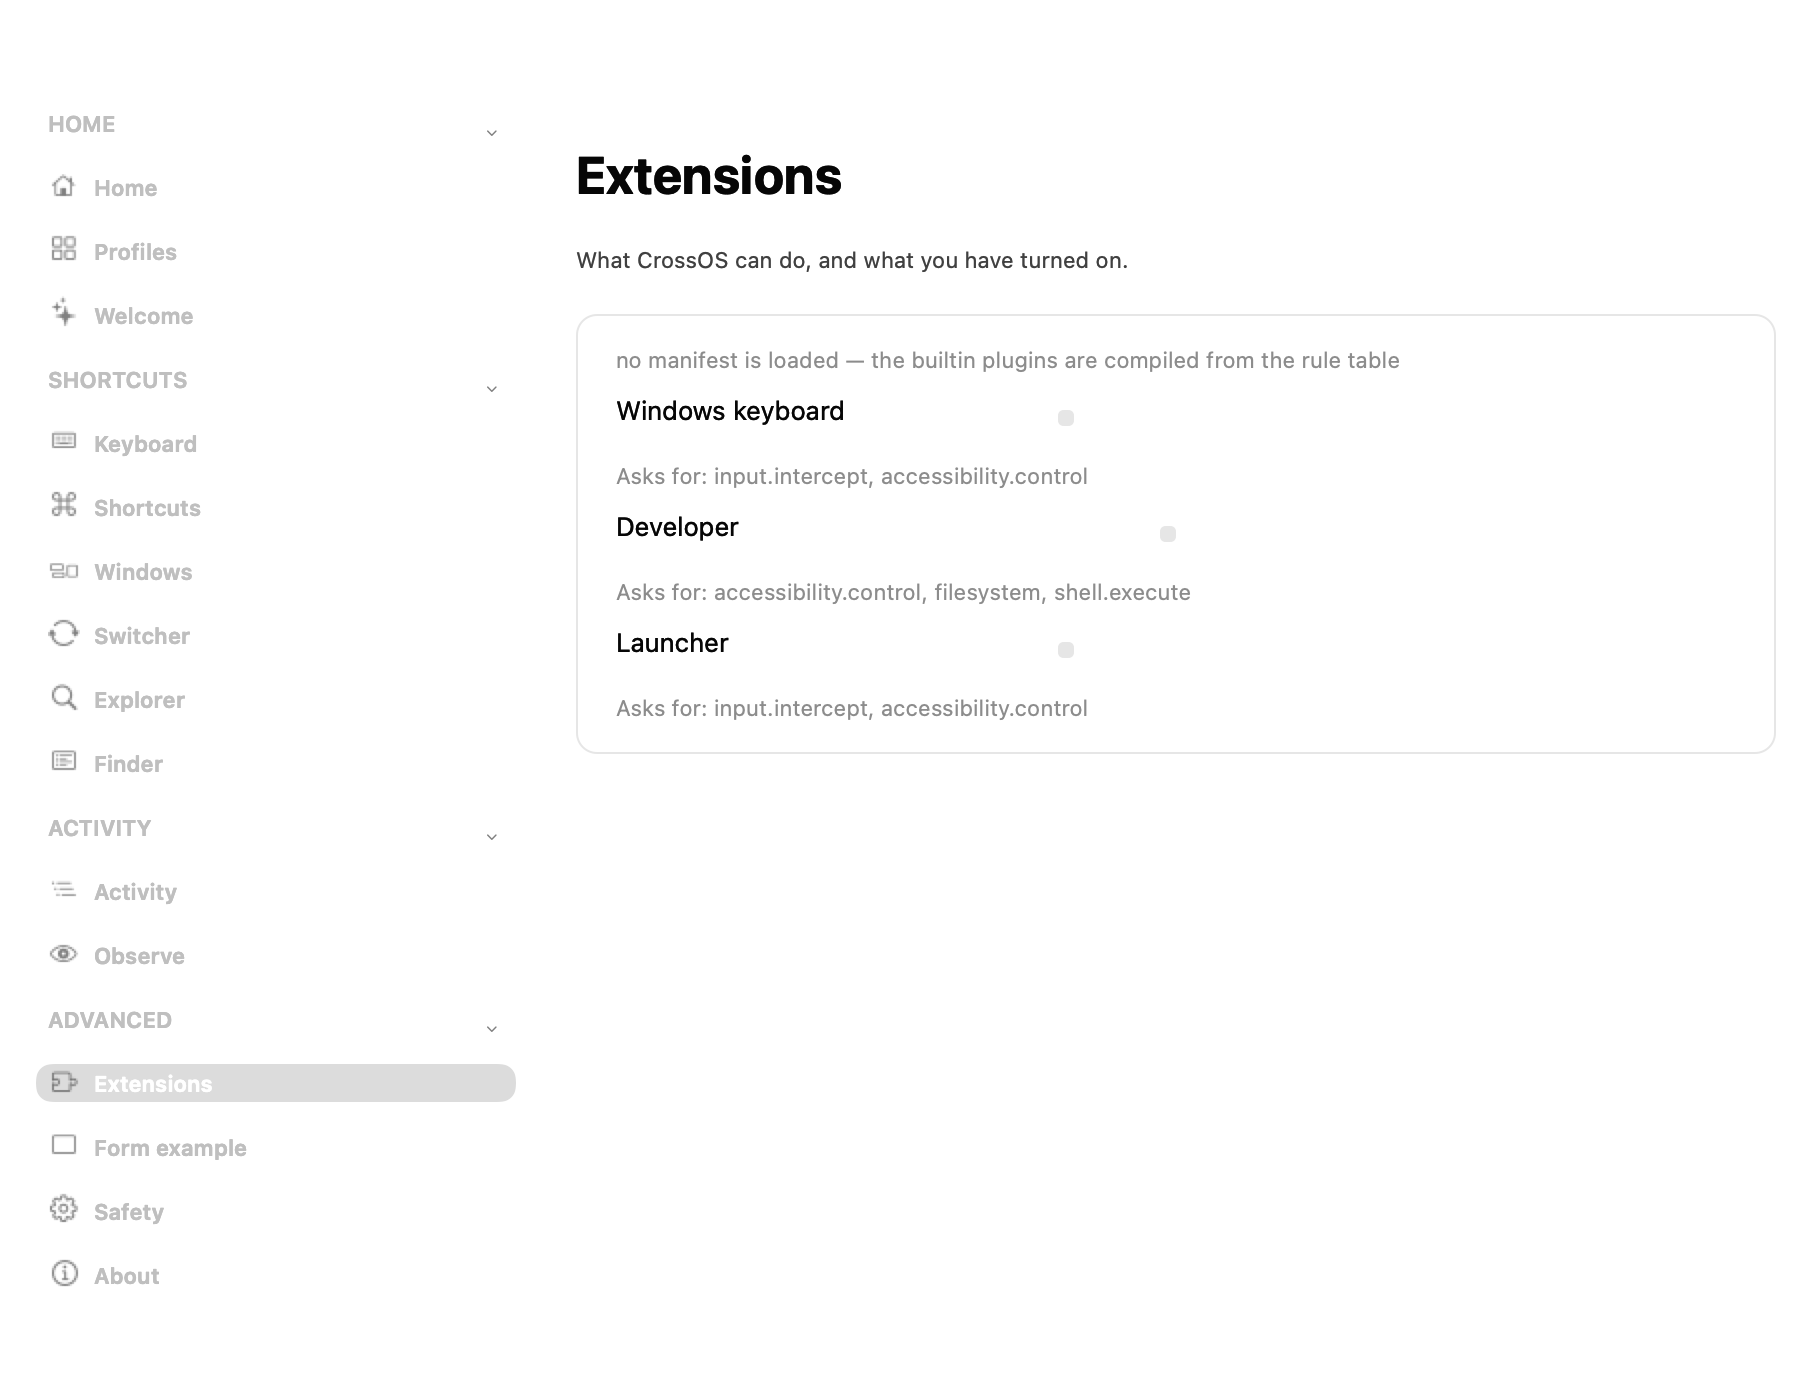
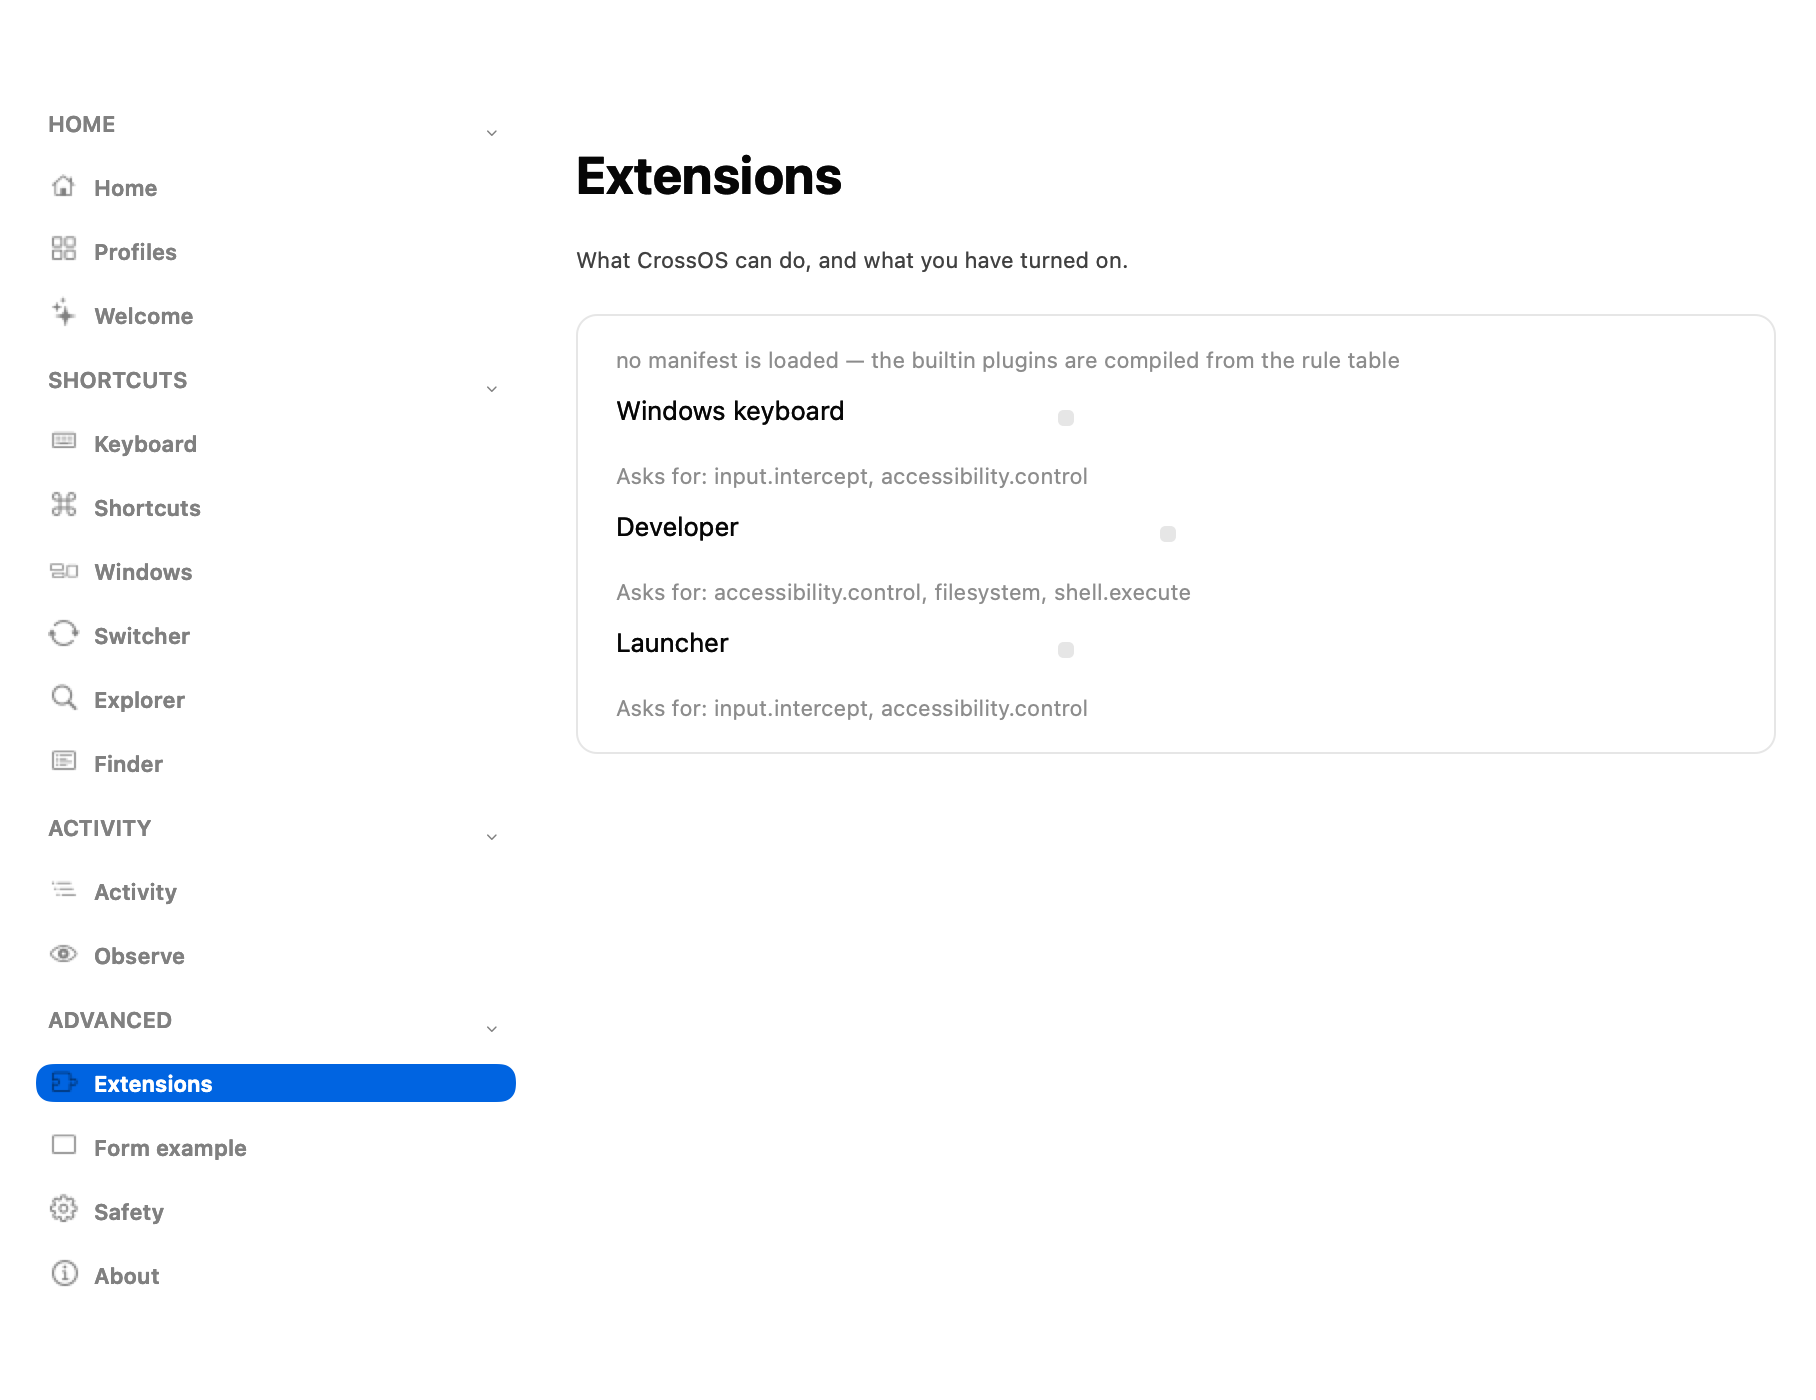
fix: the contrast audit was reporting a surface the app does not draw
Three corrections, and one of them is the audit catching the thing it
was written to check.

**There is no accent surface in this app.** Every ink was paired with
`controlAccentColor`, and the dark appearance reported
`primary on accent is 4.02:1` as a FAIL. Measured on the dark render:
the rail's selected row is a NEUTRAL grey — `(70, 70, 70)` — with a
white label at **9.44:1**. And `Palette.accent` appeared nowhere in the
app outside the audit's own list of surfaces.

So the matrix was measuring a surface nothing renders, which is the third
finding in this file about a combination that does not exist. The surface
is now `Palette.selectionSurface`, built from what AppKit actually draws.

**`readable()` was reading the wrong appearance.** It took
`NSApp.effectiveAppearance`, which is what the app is CONFIGURED as — not
what is DRAWING. The audit measures both appearances by wrapping each pass
in `performAsCurrentDrawingAppearance`, which changes the second and not
the first, so a dark-appropriated ink was being measured against a light
surface: `okInk on card is 2.12:1` for a colour that measures 8.35:1 in
the appearance it was built for.

That is worth writing down plainly: **the audit caught a defect in the
code that fixed the previous defect.** The check found something in the
fix, which is the first time that has happened in this repo and rather
the point of having the check at all.

`readable()` now reads `NSAppearance.currentDrawing()`.
[…]

diff --git a/macos/Sources/CrossOSApp/DesignSystem.swift b/macos/Sources/CrossOSApp/DesignSystem.swift
@@ -57,6 +57,22 @@ public enum Palette {
     /// directions for free.
     public static var sidebarBackground: NSColor { .windowBackgroundColor }
 
+    /// The rail's selected row, as the system actually draws it.
+    ///
+    /// **Not the accent.** AppKit's `.regular` selection highlight tints the
+    /// row with the user's accent at a wash, which on this host resolves to a
+    /// neutral grey — measured on the dark render as `(70, 70, 70)` with a
+    /// white label, 9.44:1.
+    ///
+    /// It is a token because the audit needs the surface the app really puts
+    /// behind text, and using `controlAccentColor` for that measured a surface
+    /// nothing draws: `Palette.accent` appeared nowhere in the app outside the
+    /// audit's own list.
+    public static var selectionSurface: NSColor {
+        NSColor.selectedContentBackgroundColor.blended(withFraction: 0.65,
+                                                       of: .windowBackgroundColor) ?? .windowBackgroundColor
+    }
+
     /// A row at rest, before hover. The hover colour is `alternatingContentBackgroundColors`
     ///'s neighbour, not a hand-mixed translucent black: the system knows what
     /// a hover looks like in both appearances and in every accent.
@@ -142,7 +158,20 @@ public enum Palette {
     /// lightened toward white in the dark one, so it still follows the user's
     /// appearance instead of being another value this file owns.
     static func readable(_ colour: NSColor) -> NSColor {
-        let dark = NSApp.effectiveAppearance.bestMatch(from: [.aqua, .darkAqua]) == .darkAqua
+        // `NSAppearance.currentDrawing()`, NOT `NSApp.effectiveAppearance`.
+        //
+        // The audit measures the same palette in both appearances by wrapping
+        // each pass in `performAsCurrentDrawingAppearance`, and that changes
+        // what is DRAWING — not what the app is configured as. Reading
+        // `NSApp.effectiveAppearance` here produced a dark-appropriated ink
+        // that was then measured against a light surface, and the audit
+        // reported `okInk on card is 2.12:1` for a colour that measures 8.35:1
+        // in the appearance it was built for.
+        //
+        // Caught by the audit, which is the first time here that a check written
+        // to catch a defect caught one in the thing that fixed a defect.
+        let drawing = NSAppearance.currentDrawing() ?? NSApp.effectiveAppearance
+        let dark = drawing.bestMatch(from: [NSAppearance.Name.aqua, .darkAqua]) == .darkAqua
         return colour.usingColorSpace(.sRGB).map { rgb in
             let mix: CGFloat = dark ? 0.30 : 0.55
             let to: CGFloat = dark ? 1.0 : 0.0

diff --git a/macos/Sources/CrossOSApp/Audit.swift b/macos/Sources/CrossOSApp/Audit.swift
@@ -156,7 +156,18 @@ enum Audit {
             ("sidebar", Palette.sidebarBackground),
             ("card", Palette.cardBackground),
             ("sunken", Palette.cardBackground), // a well sits on a card
-            ("accent", Palette.accent),
+            // NOT the accent. There is no accent surface in this app: the
+            // rail's selected row is a NEUTRAL grey, measured on the dark
+            // render at `(70, 70, 70)` with a white label at **9.44:1**, and
+            // `Palette.accent` appears nowhere outside this audit. So pairing
+            // every ink with it measured a surface the app does not draw, and
+            // in the dark appearance it reported a FAIL for it — which is the
+            // third time this matrix has produced a finding about a
+            // combination nothing renders.
+            //
+            // What the app DOES put behind text is the selection grey, and
+            // `selectionInk` checks the ink against that, measured.
+            ("selection", Palette.selectionSurface),
         ]
 
         var findings: [Finding] = []
